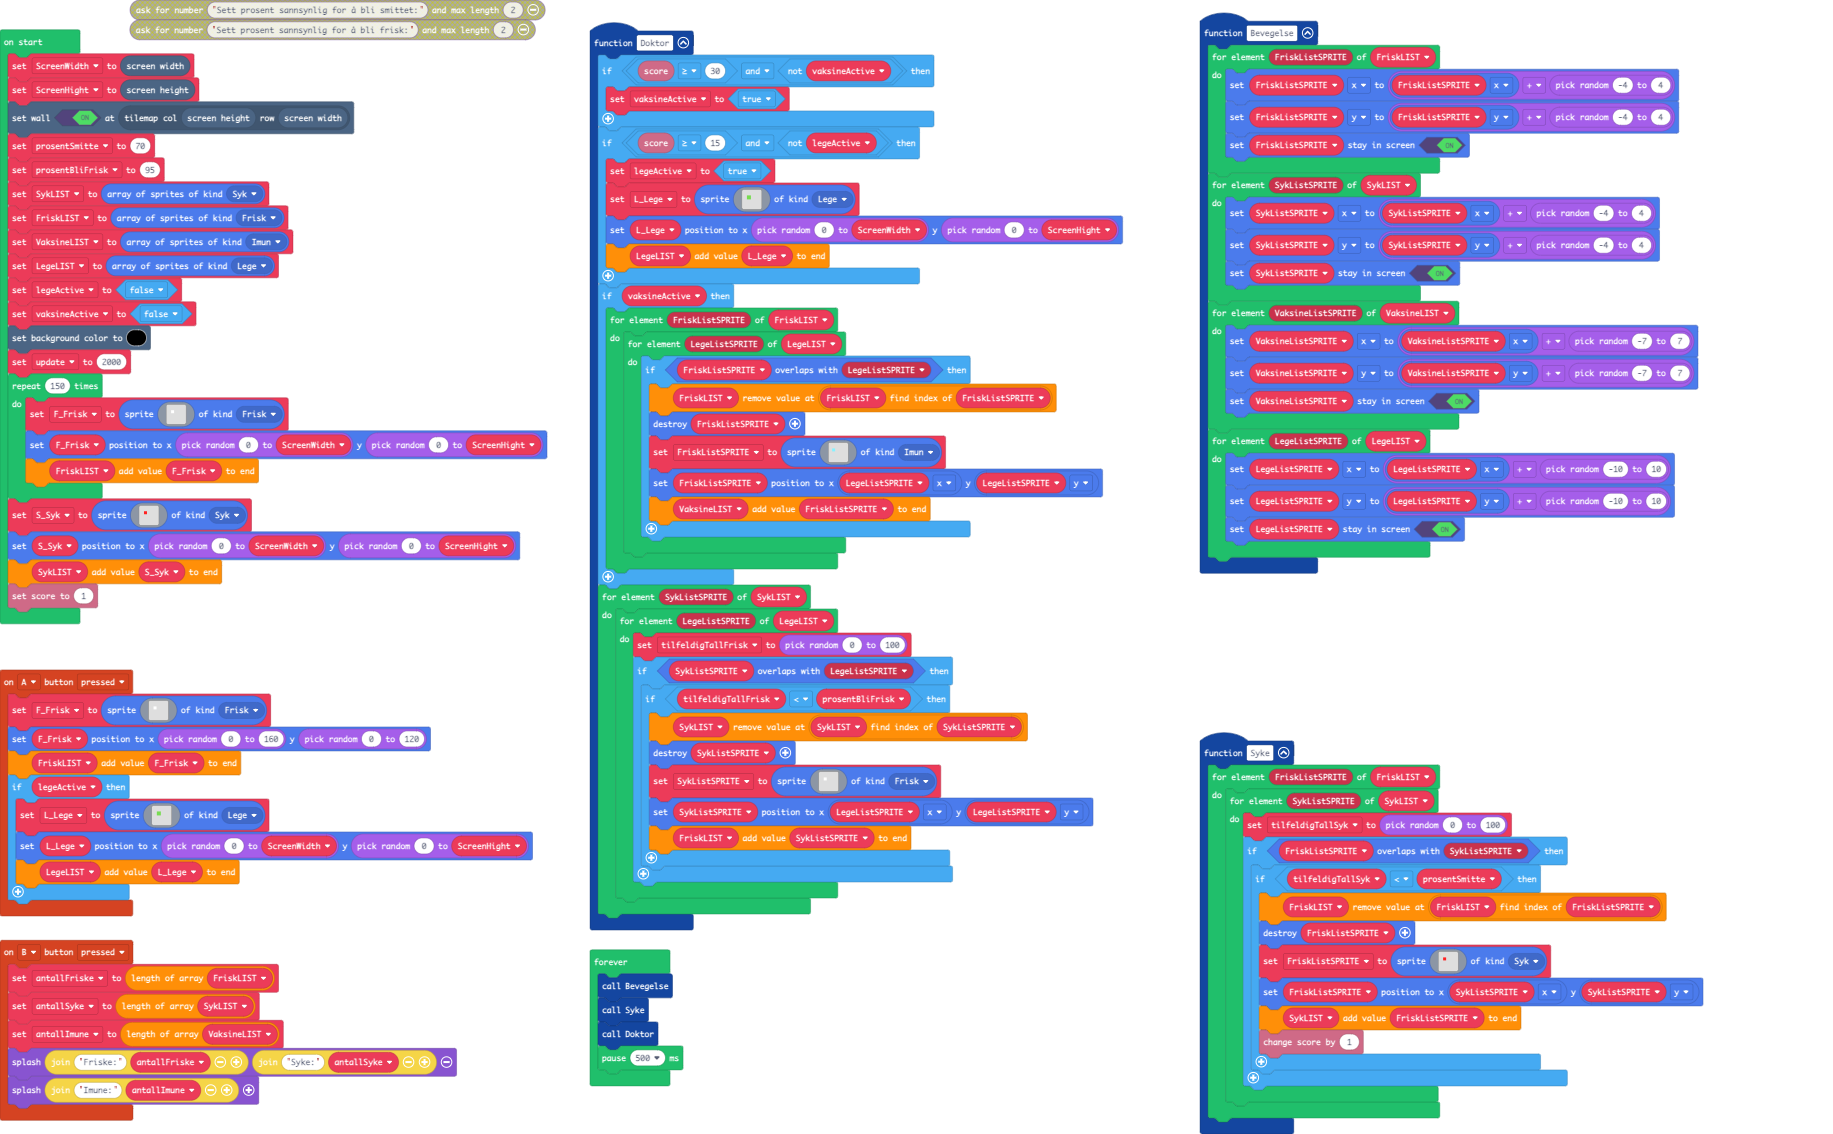
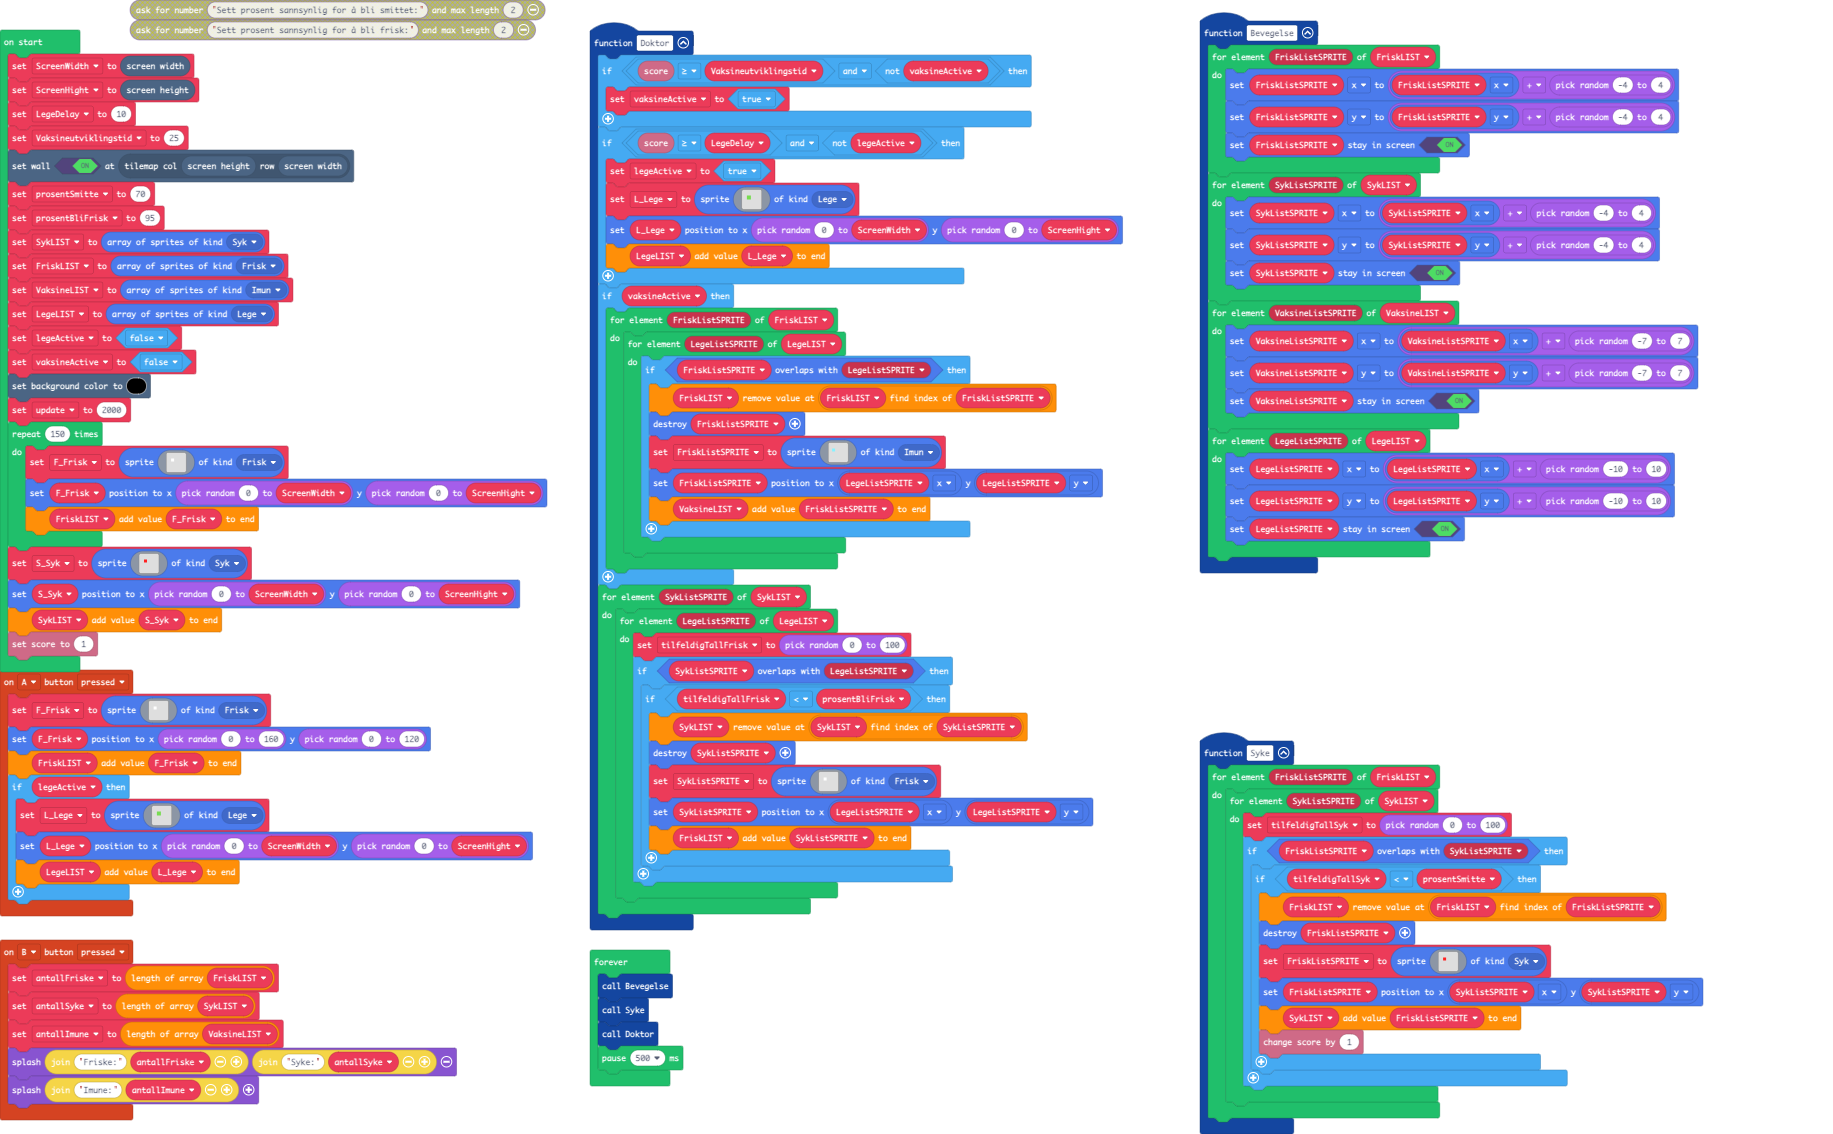
Update main.blocks, main.ts

diff --git a/main.ts b/main.ts
@@ -96,10 +96,10 @@ function Syke () {
     }
 }
 function Doktor () {
-    if (info.score() >= 30 && !(vaksineActive)) {
+    if (info.score() >= Vaksineutviklingstid && !(vaksineActive)) {
         vaksineActive = true
     }
-    if (info.score() >= 15 && !(legeActive)) {
+    if (info.score() >= LegeDelay && !(legeActive)) {
         legeActive = true
         L_Lege = sprites.create(img`
             . . . . . . . . . . . . . . . . 
@@ -182,10 +182,14 @@ let FriskLIST: Sprite[] = []
 let SykLIST: Sprite[] = []
 let prosentBliFrisk = 0
 let prosentSmitte = 0
+let Vaksineutviklingstid = 0
+let LegeDelay = 0
 let ScreenHight = 0
 let ScreenWidth = 0
 ScreenWidth = scene.screenWidth()
 ScreenHight = scene.screenHeight()
+LegeDelay = 10
+Vaksineutviklingstid = 25
 tiles.setWallAt(tiles.getTileLocation(scene.screenHeight(), scene.screenWidth()), true)
 prosentSmitte = 70
 prosentBliFrisk = 95
